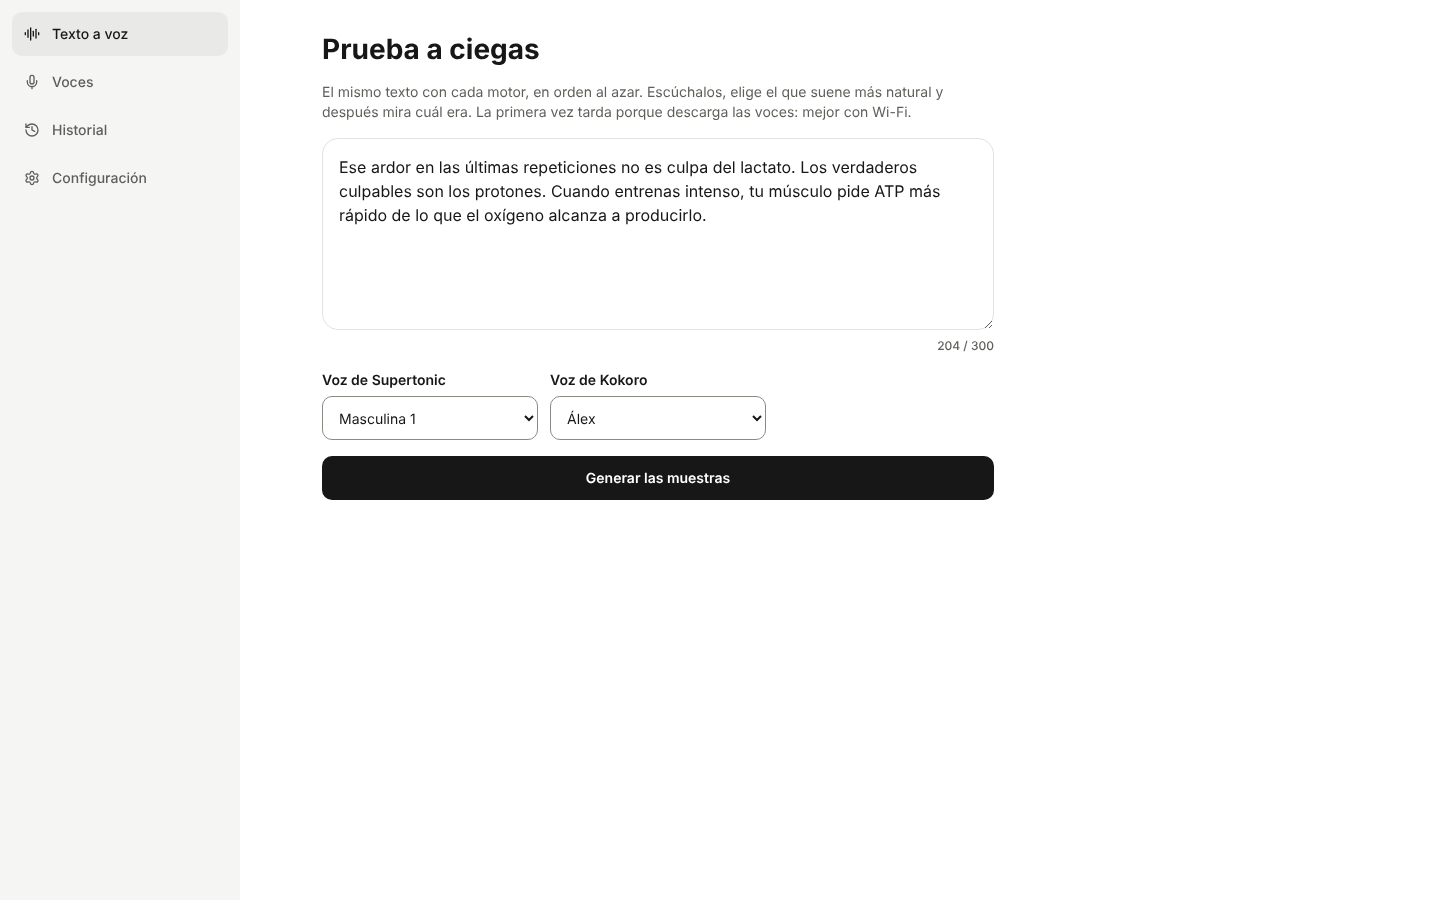
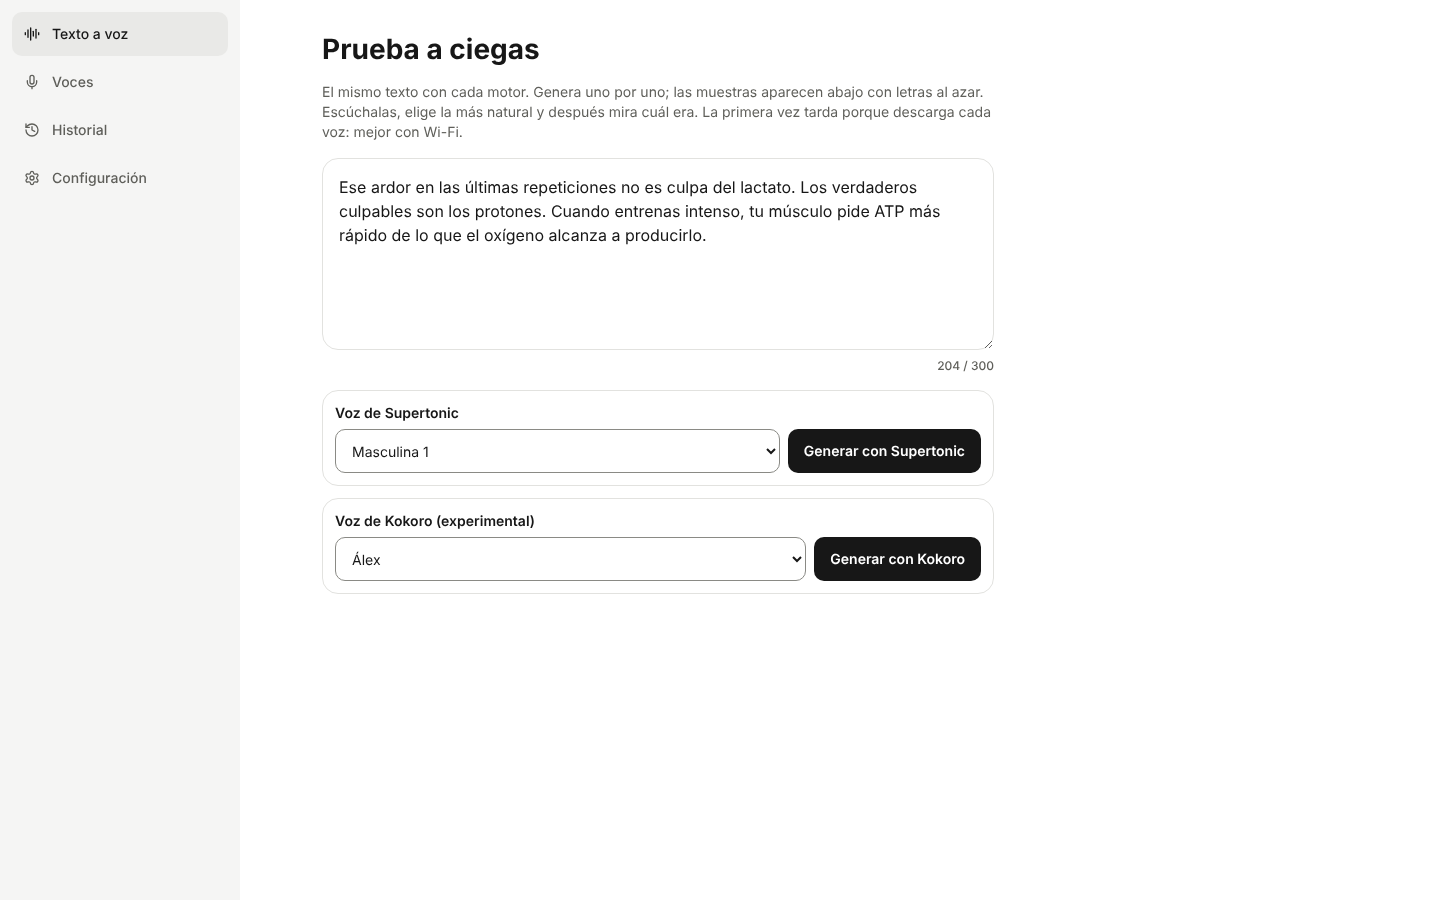
Clonar: diagnóstico persistente, prueba a ciegas por motor y Kokoro por defecto en iPhone
Claude-Session: https://claude.ai/code/session_017PGyW5MfeWmYEEDumJVsxR

diff --git a/clonar/app/src/screens/BlindTest.tsx b/clonar/app/src/screens/BlindTest.tsx
@@ -1,7 +1,10 @@
-import { useState } from "react";
-import { Eye, Play } from "lucide-react";
+import { useEffect, useState } from "react";
+import { Eye, Play, RotateCcw } from "lucide-react";
 import { encodeMp3, fileName } from "../audio";
+import { samples as samplesTable, type BlindSample } from "../db";
+import { diag } from "../diag";
 import { synthEleven } from "../engines/elevenlabs";
+import { isIOS } from "../engines/fetchCached";
 import { synthLocal } from "../engines/local";
 import { engines, type EngineId } from "../engines/types";
 import { useApp } from "../state";
@@ -14,83 +17,126 @@ import { builtinVoices } from "../voices";
 const SCRIPT =
   "Ese ardor en las últimas repeticiones no es culpa del lactato. Los verdaderos culpables son los protones. Cuando entrenas intenso, tu músculo pide ATP más rápido de lo que el oxígeno alcanza a producirlo.";
 
-type Sample = { engine: EngineId; voiceName: string; blob: Blob; seconds: number };
+const letters = "ABC";
 
-// Prueba a ciegas: el mismo guion con cada motor, en orden aleatorio.
+// Prueba a ciegas: el mismo guion con cada motor. Cada motor se genera con su propio
+// botón y la muestra se guarda en cuanto sale, así un cierre de la pestaña no borra las demás.
 export function BlindTest() {
   const { prefs, elevenVoices, play, toast } = useApp();
   const [text, setText] = useState(SCRIPT);
-  const [stVoice, setStVoice] = useState("M1");
-  const [kkVoice, setKkVoice] = useState("em_alex");
-  const [elVoice, setElVoice] = useState(elevenVoices.find((v) => /emiliano/i.test(v.name))?.id ?? elevenVoices[0]?.id ?? "");
-  const [busy, setBusy] = useState<{ label: string; fraction?: number } | null>(null);
-  const [samples, setSamples] = useState<Sample[]>([]);
+  const [voices, setVoices] = useState<Record<EngineId, string>>({
+    supertonic: "M1",
+    kokoro: "em_alex",
+    elevenlabs: elevenVoices.find((v) => /emiliano/i.test(v.name))?.id ?? elevenVoices[0]?.id ?? "",
+  });
+  const [busy, setBusy] = useState<{ engine: EngineId; label: string; fraction?: number } | null>(null);
+  const [done, setDone] = useState<BlindSample[]>([]);
+  const [order, setOrder] = useState<EngineId[]>([]);
   const [revealed, setRevealed] = useState(false);
-  const [pick, setPick] = useState<number | null>(null);
+  const [pick, setPick] = useState<EngineId | null>(null);
 
-  async function run() {
-    setSamples([]);
+  useEffect(() => {
+    samplesTable.toArray().then((list) => {
+      setDone(list);
+      setOrder(list.map((s) => s.engine).sort(() => Math.random() - 0.5));
+    });
+  }, []);
+
+  const available: EngineId[] = ["supertonic", "kokoro", ...(prefs.elevenKey && elevenVoices.length ? (["elevenlabs"] as const) : [])];
+
+  async function run(engine: EngineId) {
+    setBusy({ engine, label: "Preparando" });
     setRevealed(false);
     setPick(null);
-    const out: Sample[] = [];
+    const started = performance.now();
     try {
-      const jobs: { engine: EngineId; voice: string; name: string }[] = [
-        { engine: "supertonic", voice: stVoice, name: builtinVoices.supertonic.find((v) => v.id === stVoice)!.name },
-        { engine: "kokoro", voice: kkVoice, name: builtinVoices.kokoro.find((v) => v.id === kkVoice)!.name },
-      ];
-      if (prefs.elevenKey && elVoice) jobs.push({ engine: "elevenlabs", voice: elVoice, name: elevenVoices.find((v) => v.id === elVoice)?.name ?? "ElevenLabs" });
-      for (const [i, j] of jobs.entries()) {
-        const label = `Motor ${i + 1} de ${jobs.length}`;
-        const started = performance.now();
-        setBusy({ label });
-        const pcm =
-          j.engine === "elevenlabs"
-            ? await synthEleven(prefs.elevenKey, text, j.voice, { ...prefs.settings, modelId: "eleven_multilingual_v2" }, {})
-            : await synthLocal(j.engine, text, j.voice, { speed: 1, steps: 8 }, (f, l) => setBusy({ label: `${label}: ${l.toLowerCase()}`, fraction: f }));
-        out.push({ engine: j.engine, voiceName: j.name, blob: encodeMp3(pcm), seconds: (performance.now() - started) / 1000 });
-      }
-      setSamples(out.sort(() => Math.random() - 0.5));
+      const voice = voices[engine];
+      const pcm =
+        engine === "elevenlabs"
+          ? await synthEleven(prefs.elevenKey, text, voice, { ...prefs.settings, modelId: "eleven_multilingual_v2" }, {})
+          : await synthLocal(engine, text, voice, { speed: 1, steps: 8 }, (f, l) => setBusy({ engine, label: l, fraction: f }));
+      const voiceName =
+        engine === "elevenlabs" ? (elevenVoices.find((v) => v.id === voice)?.name ?? "ElevenLabs") : builtinVoices[engine].find((v) => v.id === voice)!.name;
+      const sample: BlindSample = { engine, voiceName, blob: encodeMp3(pcm), seconds: (performance.now() - started) / 1000, createdAt: Date.now() };
+      await samplesTable.put(sample);
+      diag(`prueba a ciegas: muestra de ${engine} guardada`);
+      setDone((d) => [...d.filter((s) => s.engine !== engine), sample]);
+      setOrder((o) => (o.includes(engine) ? o : [...o, engine].sort(() => Math.random() - 0.5)));
     } catch (e) {
       toast(e instanceof Error ? e.message : String(e), "error");
-      if (out.length) setSamples(out.sort(() => Math.random() - 0.5));
     } finally {
       setBusy(null);
     }
   }
 
-  const letters = "ABC";
+  async function reset() {
+    await samplesTable.clear();
+    setDone([]);
+    setOrder([]);
+    setRevealed(false);
+    setPick(null);
+  }
+
+  const byEngine = (e: EngineId) => done.find((s) => s.engine === e);
+
   return (
     <div className="flex max-w-2xl flex-col gap-4">
       <h1 className="text-[28px] font-bold leading-[34px]">Prueba a ciegas</h1>
       <p className="text-sm text-muted">
-        El mismo texto con cada motor, en orden al azar. Escúchalos, elige el que suene más natural y después mira cuál era. La primera vez tarda porque descarga las voces: mejor con Wi-Fi.
+        El mismo texto con cada motor. Genera uno por uno; las muestras aparecen abajo con letras al azar. Escúchalas, elige la más natural y después mira cuál era. La primera vez tarda porque descarga cada voz: mejor con Wi-Fi.
       </p>
+      {isIOS && (
+        <p className="rounded-md bg-surface p-3 text-xs text-muted">
+          En iPhone, Supertonic pesa unos 400 MB y puede hacer que el navegador cierre la pestaña. Prueba primero Kokoro. Si la pestaña se cierra, vuelve a abrir la app: lo que ya se generó sigue aquí, y en Configuración → Diagnóstico queda dónde falló.
+        </p>
+      )}
       <TextEditor value={text} onChange={setText} limit={300} disabled={!!busy} />
-      <div className="grid gap-3 sm:grid-cols-3">
-        <Select label="Voz de Supertonic" value={stVoice} onChange={setStVoice} options={builtinVoices.supertonic.map((v) => ({ value: v.id, label: v.name }))} />
-        <Select label="Voz de Kokoro" value={kkVoice} onChange={setKkVoice} options={builtinVoices.kokoro.map((v) => ({ value: v.id, label: v.name }))} />
-        {prefs.elevenKey && elevenVoices.length > 0 && (
-          <Select label="Voz de ElevenLabs" value={elVoice} onChange={setElVoice} options={elevenVoices.map((v) => ({ value: v.id, label: v.name }))} />
-        )}
-      </div>
-      {busy ? <ProgressBar label={busy.label} value={busy.fraction !== undefined ? busy.fraction * 100 : undefined} /> : <Button onClick={run} disabled={!text.trim()}>Generar las muestras</Button>}
 
-      {samples.length > 0 && (
-        <div className="flex flex-col gap-2">
-          {samples.map((s, i) => (
-            <div key={i} className={`flex items-center gap-3 rounded-lg border p-3 ${pick === i ? "border-accent" : "border-line"}`}>
-              <Button variant="secondary" size="sm" icon={<Play className="size-4" />} onClick={() => play(s.blob, `Muestra ${letters[i]}`, fileName(`muestra ${letters[i]}`, "mp3"))}>
-                {letters[i]}
-              </Button>
-              <span className="flex-1 text-sm">{revealed ? `${engines[s.engine].name} · ${s.voiceName} · generada en ${s.seconds.toFixed(1)} s` : `Muestra ${letters[i]}`}</span>
-              <Button variant={pick === i ? "primary" : "ghost"} size="sm" onClick={() => setPick(i)} aria-pressed={pick === i}>
-                {pick === i ? "Elegida" : "Elegir"}
+      <div className="flex flex-col gap-3">
+        {available.map((engine) => {
+          const options =
+            engine === "elevenlabs" ? elevenVoices.map((v) => ({ value: v.id, label: v.name })) : builtinVoices[engine].map((v) => ({ value: v.id, label: v.name }));
+          return (
+            <div key={engine} className="flex flex-col gap-2 rounded-lg border border-line p-3 sm:flex-row sm:items-end">
+              <div className="flex-1">
+                <Select label={`Voz de ${engines[engine].name}`} value={voices[engine]} onChange={(v) => setVoices((s) => ({ ...s, [engine]: v }))} options={options} disabled={!!busy} />
+              </div>
+              <Button variant={byEngine(engine) ? "secondary" : "primary"} onClick={() => run(engine)} disabled={!!busy || !text.trim()} loading={busy?.engine === engine}>
+                {byEngine(engine) ? "Generar otra vez" : `Generar con ${engines[engine].name.split(" ")[0]}`}
               </Button>
             </div>
-          ))}
-          <Button variant="secondary" icon={<Eye className="size-4" />} onClick={() => setRevealed(true)} disabled={pick === null} className="self-start">
-            Ver cuál era cuál
-          </Button>
+          );
+        })}
+      </div>
+
+      {busy && <ProgressBar label={`${engines[busy.engine].name}: ${busy.label}`} value={busy.fraction !== undefined ? busy.fraction * 100 : undefined} />}
+
+      {order.length > 0 && (
+        <div className="flex flex-col gap-2">
+          <h2 className="text-lg font-semibold">Muestras</h2>
+          {order.map((engine, i) => {
+            const s = byEngine(engine);
+            if (!s) return null;
+            return (
+              <div key={engine} className={`flex items-center gap-3 rounded-lg border p-3 ${pick === engine ? "border-accent" : "border-line"}`}>
+                <Button variant="secondary" size="sm" icon={<Play className="size-4" />} onClick={() => play(s.blob, `Muestra ${letters[i]}`, fileName(`muestra ${letters[i]}`, "mp3"))}>
+                  {letters[i]}
+                </Button>
+                <span className="flex-1 text-sm">{revealed ? `${engines[engine].name} · ${s.voiceName} · generada en ${s.seconds.toFixed(1)} s` : `Muestra ${letters[i]}`}</span>
+                <Button variant={pick === engine ? "primary" : "ghost"} size="sm" onClick={() => setPick(engine)} aria-pressed={pick === engine}>
+                  {pick === engine ? "Elegida" : "Elegir"}
+                </Button>
+              </div>
+            );
+          })}
+          <div className="flex flex-wrap gap-2">
+            <Button variant="secondary" icon={<Eye className="size-4" />} onClick={() => setRevealed(true)} disabled={pick === null}>
+              Ver cuál era cuál
+            </Button>
+            <Button variant="ghost" icon={<RotateCcw className="size-4" />} onClick={reset}>
+              Empezar de nuevo
+            </Button>
+          </div>
         </div>
       )}
     </div>

diff --git a/clonar/app/src/engines/local.ts b/clonar/app/src/engines/local.ts
@@ -3,6 +3,7 @@
 // (los dos juntos no caben en una pestaña de iPhone).
 import type { WorkerRequest, WorkerResponse } from "./worker";
 import type { EngineId, Pcm } from "./types";
+import { diag } from "../diag";
 
 type Local = Exclude<EngineId, "elevenlabs">;
 type Pending = { resolve: (v: WorkerResponse) => void; reject: (e: Error) => void; onProgress?: (f: number, label: string) => void };
@@ -14,6 +15,7 @@ let nextId = 1;
 export function unloadLocal(engine: Local) {
   const slot = slots.get(engine);
   if (!slot) return;
+  diag(`${engine}: motor cerrado para liberar memoria`);
   slot.worker.terminate();
   for (const p of slot.pending.values()) p.reject(new Error("Se cambió de motor"));
   slots.delete(engine);
@@ -35,7 +37,9 @@ function getSlot(engine: Local): Slot {
     if (msg.type === "error") p.reject(new Error(msg.message));
     else p.resolve(msg);
   };
+  diag(`${engine}: abriendo motor`);
   worker.onerror = (e) => {
+    diag(`${engine}: el motor se detuvo (${e.message || "sin mensaje"})`);
     for (const p of slot.pending.values()) p.reject(new Error(e.message || "El motor de voz se detuvo"));
     slot.pending.clear();
     slots.delete(engine);
@@ -49,8 +53,30 @@ type DistributiveOmit<T, K extends keyof never> = T extends unknown ? Omit<T, K>
 function call(req: DistributiveOmit<WorkerRequest, "id">, onProgress?: Pending["onProgress"]) {
   const id = nextId++;
   const slot = getSlot(req.engine);
+  const started = performance.now();
+  let lastLabel = "";
+  let lastStep = -1;
+  diag(`${req.engine}: ${req.type === "load" ? "cargar" : `generar ${req.text.length} caracteres`}`);
+  const progress = (f: number, label: string) => {
+    // Se registra cada cambio de etapa y cada 25 % de avance, no cada byte.
+    const step = Math.floor(f * 4);
+    if (label !== lastLabel || step !== lastStep) diag(`${req.engine}: ${label} ${Math.round(f * 100)} %`);
+    lastLabel = label;
+    lastStep = step;
+    onProgress?.(f, label);
+  };
   return new Promise<WorkerResponse>((resolve, reject) => {
-    slot.pending.set(id, { resolve, reject, onProgress });
+    slot.pending.set(id, {
+      resolve: (v) => {
+        diag(`${req.engine}: listo en ${((performance.now() - started) / 1000).toFixed(1)} s${v.type === "loaded" && v.device ? ` (${v.device})` : ""}`);
+        resolve(v);
+      },
+      reject: (e) => {
+        diag(`${req.engine}: error: ${e.message}`);
+        reject(e);
+      },
+      onProgress: progress,
+    });
     slot.worker.postMessage({ ...req, id });
   });
 }

diff --git a/clonar/app/src/screens/SettingsScreen.tsx b/clonar/app/src/screens/SettingsScreen.tsx
@@ -1,5 +1,6 @@
 import { useEffect, useState } from "react";
-import { Eye, EyeOff, Trash2 } from "lucide-react";
+import { Copy, Eye, EyeOff, Trash2 } from "lucide-react";
+import { clearDiag, deviceSummary, readDiag, type DiagEntry } from "../diag";
 import { askPersistence } from "../db";
 import { elevenCredits } from "../engines/elevenlabs";
 import { useApp } from "../state";
@@ -15,7 +16,21 @@ export function SettingsScreen() {
   const [checking, setChecking] = useState(false);
   const [storage, setStorage] = useState<{ usage: number; quota: number; persisted: boolean } | null>(null);
 
+  const [log, setLog] = useState<DiagEntry[]>(readDiag);
+
   useEffect(() => setKey(prefs.elevenKey), [prefs.elevenKey]);
+
+  const logText = () =>
+    [deviceSummary(), ...log.map((e) => `${new Date(e.t).toLocaleTimeString("es-MX")} ${e.msg}`)].join("\n");
+
+  async function copyLog() {
+    try {
+      await navigator.clipboard.writeText(logText());
+      toast("Diagnóstico copiado");
+    } catch {
+      toast("No se pudo copiar; toma una captura", "error");
+    }
+  }
 
   const readStorage = async () => {
     try {
@@ -103,6 +118,22 @@ export function SettingsScreen() {
         <Button variant="secondary" icon={<Trash2 className="size-4" />} onClick={clearModels} className="self-start">
           Borrar las voces descargadas
         </Button>
+      </section>
+
+      <section className="flex flex-col gap-3">
+        <h2 className="text-lg font-semibold">Diagnóstico</h2>
+        <p className="text-sm text-muted">Lo que hicieron los motores de voz, paso a paso. Se conserva aunque el navegador cierre la pestaña.</p>
+        <pre className="max-h-80 overflow-auto whitespace-pre-wrap rounded-md bg-surface p-3 font-mono text-xs text-fg">
+          {log.length ? logText() : "Todavía no hay registros."}
+        </pre>
+        <div className="flex flex-wrap gap-2">
+          <Button variant="secondary" size="sm" icon={<Copy className="size-4" />} onClick={copyLog} disabled={!log.length}>
+            Copiar
+          </Button>
+          <Button variant="ghost" size="sm" onClick={() => { clearDiag(); setLog([]); }} disabled={!log.length}>
+            Borrar registro
+          </Button>
+        </div>
       </section>
 
       <section className="flex flex-col gap-2">

diff --git a/clonar/app/src/diag.ts b/clonar/app/src/diag.ts
@@ -1,0 +1,45 @@
+// Registro de diagnóstico. Se guarda en localStorage en cada paso, así sobrevive
+// aunque el navegador cierre la pestaña por falta de memoria y se puede leer al volver.
+const KEY = "voz:diag";
+const MAX = 80;
+
+export type DiagEntry = { t: number; msg: string };
+
+export function diag(msg: string) {
+  try {
+    const list: DiagEntry[] = JSON.parse(localStorage.getItem(KEY) ?? "[]");
+    list.push({ t: Date.now(), msg });
+    localStorage.setItem(KEY, JSON.stringify(list.slice(-MAX)));
+  } catch {
+    // sin almacenamiento local: no hay registro
+  }
+}
+
+export function readDiag(): DiagEntry[] {
+  try {
+    return JSON.parse(localStorage.getItem(KEY) ?? "[]");
+  } catch {
+    return [];
+  }
+}
+
+export function clearDiag() {
+  try {
+    localStorage.removeItem(KEY);
+  } catch {
+    // nada que borrar
+  }
+}
+
+export function deviceSummary() {
+  const nav = navigator as Navigator & { deviceMemory?: number };
+  return [
+    navigator.userAgent,
+    `WebGPU: ${"gpu" in navigator ? "sí" : "no"}`,
+    `núcleos: ${navigator.hardwareConcurrency ?? "?"}`,
+    nav.deviceMemory ? `memoria: ${nav.deviceMemory} GB` : "",
+    `aislado: ${self.crossOriginIsolated ? "sí" : "no"}`,
+  ]
+    .filter(Boolean)
+    .join(" · ");
+}

diff --git a/clonar/app/src/db.ts b/clonar/app/src/db.ts
@@ -1,4 +1,5 @@
 import Dexie, { type EntityTable } from "dexie";
+import { isIOS } from "./engines/fetchCached";
 import { defaultSettings, type EngineId, type SynthSettings, type Voice } from "./engines/types";
 
 export type Generation = {
@@ -26,7 +27,8 @@ export type Prefs = {
 
 export const defaultPrefs: Prefs = {
   id: "prefs",
-  engine: "supertonic",
+  // En iPhone, Kokoro (90 MB) en vez de Supertonic (400 MB), que no cabe en la memoria de la pestaña.
+  engine: isIOS ? "kokoro" : "supertonic",
   voiceByEngine: { supertonic: "M1", kokoro: "ef_dora" },
   settings: defaultSettings,
   elevenKey: "",
@@ -44,6 +46,11 @@ db.version(1).stores({
   voices: "key, engine, savedAt",
   prefs: "id",
 });
+db.version(2).stores({ samples: "engine" });
+
+// Muestras de la prueba a ciegas: se guardan en cuanto salen, por si la pestaña se cierra.
+export type BlindSample = { engine: EngineId; voiceName: string; blob: Blob; seconds: number; createdAt: number };
+export const samples = (db as unknown as { samples: EntityTable<BlindSample, "engine"> }).samples;
 
 export async function getPrefs(): Promise<Prefs> {
   const p = await db.prefs.get("prefs");

diff --git a/clonar/app/src/engines/supertonic.ts b/clonar/app/src/engines/supertonic.ts
@@ -51,7 +51,16 @@ export function loadSupertonic(onProgress: (fraction: number, label: string) => 
       );
       onProgress((i + 1) / names.length, "Preparando la voz");
       try {
-        sessions.push(await ort.InferenceSession.create(bytes, { executionProviders: [device] }));
+        sessions.push(
+          await ort.InferenceSession.create(bytes, {
+            executionProviders: [device],
+            // Menos memoria: sin reserva previa de bloques y optimización básica
+            // (la completa duplica pesos de forma temporal).
+            enableCpuMemArena: false,
+            enableMemPattern: false,
+            graphOptimizationLevel: "basic",
+          }),
+        );
       } catch (err) {
         if (device === "wasm") throw err;
         device = "wasm";
